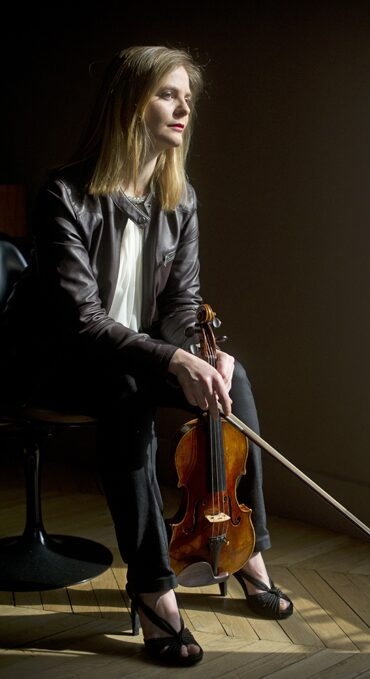
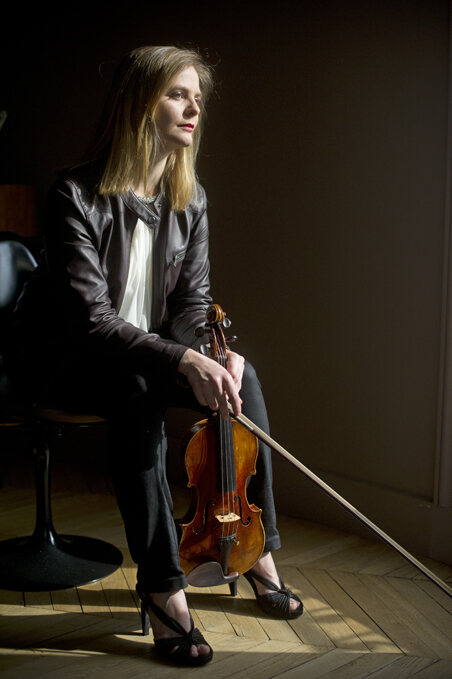
Credit Solenne Païdassi's headshot; prepare for custom domain
Adds the site URL for canonical links and share images, and documents
GitHub Pages and DNS setup for yarmouthchambermusicfestival.ca.

Claude-Session: https://claude.ai/code/session_011tWghNDbHznMhN77U9w5cy

diff --git a/README.md b/README.md
@@ -139,14 +139,41 @@ event refers to an artist, venue or image that doesn't exist.
 
 ## Deploying
 
-Pushing to `main` builds the site and publishes it with GitHub Pages
-(`.github/workflows/deploy.yml`). It also rebuilds every morning, as
-described under Years. In the repository settings, under
-Pages → Source, choose "GitHub Actions".
+The site is hosted free on GitHub Pages at
+https://yarmouthchambermusicfestival.ca. Pushing to `main` builds and
+publishes it (`.github/workflows/deploy.yml`), and it also rebuilds every
+morning, as described under Years.
 
-The output in `dist/` is ordinary static files, so any host works. On Netlify
-or Cloudflare Pages, set the build command to `node build.mjs` and the output
-directory to `dist`, and schedule a daily rebuild with a build hook. All links are relative, so the site works at a domain
-root or under a sub-path such as `username.github.io/ycmf-website/`. If it is
-served from a sub-path, set `"basePath"` in `site.json` (for example
-`"/ycmf-website/"`) so the 404 page links correctly.
+One-time setup:
+
+1. In this repository on GitHub: Settings → Pages → Build and deployment →
+   Source: **GitHub Actions**.
+2. At the domain registrar, set these DNS records for
+   `yarmouthchambermusicfestival.ca` (remove any other A/AAAA records on the
+   bare domain, such as a parking page):
+
+   | Type  | Name | Value                  |
+   |-------|------|------------------------|
+   | A     | @    | 185.199.108.153        |
+   | A     | @    | 185.199.109.153        |
+   | A     | @    | 185.199.110.153        |
+   | A     | @    | 185.199.111.153        |
+   | AAAA  | @    | 2606:50c0:8000::153    |
+   | AAAA  | @    | 2606:50c0:8001::153    |
+   | AAAA  | @    | 2606:50c0:8002::153    |
+   | AAAA  | @    | 2606:50c0:8003::153    |
+   | CNAME | www  | kirahowe.github.io     |
+
+3. Back in Settings → Pages → Custom domain, enter
+   `yarmouthchambermusicfestival.ca` and save. Once the DNS check passes
+   (minutes to a few hours), tick **Enforce HTTPS**.
+4. Recommended: verify the domain under your GitHub account's
+   Settings → Pages, so no one else can claim it for their own Pages site.
+
+`"url"` in `site.json` is used for share previews and canonical links; change
+it if the site moves.
+
+The output in `dist/` is ordinary static files, so any static host works. On
+Netlify or Cloudflare Pages, set the build command to `node build.mjs` and the
+output directory to `dist`, and schedule a daily rebuild with a build hook.
+All links are relative; only the 404 page uses `"basePath"` in `site.json`.
